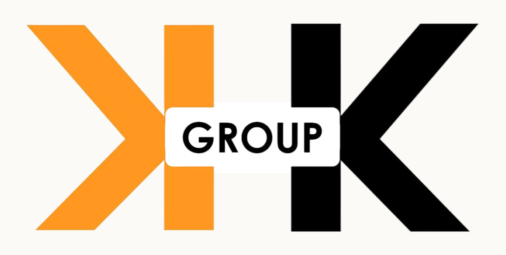
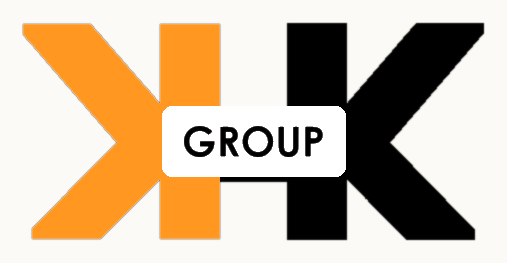
Use the bolder KK mark and match it to the RK mark
The lockup now uses kk-group-mark-bold.png and its light version, in
the header, mobile menu and footer, and the old KK files are removed.
Header plates are rebuilt from each mark's trimmed letters with the same
10% padding, so both marks share one height. Rendered letter heights
match to within 0.33px at 1440, 768, 390 and 320px.

Changed region(s): [[0.0296, 0.0824, 0.9783, 0.9333]]

diff --git a/src/app/globals.css b/src/app/globals.css
@@ -665,13 +665,12 @@ h1,h2,h3 { font-family: "Space Grotesk", Arial, sans-serif; font-weight: 500; le
 .brand-order:hover { transform: translateY(-1px); }
 .brand-islamabad .brand-order { background: #f7edce; color: var(--ink); }
 
-/* RK and KK lockup: both marks at the same height, the text between them. Plate images carry 22px of padding per 338px of mark. */
+/* RK and KK lockup: both marks at the same letter height, the text between them. Plate images carry 10% padding, so they render at 1.2 times the mark height. */
 .brand-lockup { --mark: 34px; display: flex; align-items: center; gap: 11px; flex: none; }
-.brand-lockup img { display: block; width: auto; height: calc(var(--mark) * 1.13); margin-inline: -3px; }
-.brand-lockup img:last-child { height: calc(var(--mark) * 1.21); margin-inline: -4px; }
+.brand-lockup img { display: block; width: auto; height: calc(var(--mark) * 1.2); margin-inline: -3px; }
 .lockup-text { font: 500 15px/1.1 "Space Grotesk", Arial, sans-serif; letter-spacing: -.02em; white-space: nowrap; }
 .brand-lockup--light { color: white; }
-.brand-lockup--light img, .brand-lockup--light img:last-child { height: 30px; margin-inline: 0; }
+.brand-lockup--light img { height: 30px; margin-inline: 0; }
 @media (max-width: 559px) {
   .site-header .brand-lockup { --mark: 30px; gap: 7px; }
   .site-header .lockup-text { font-size: 11px; line-height: 1.12; }

diff --git a/src/components/Logo.tsx b/src/components/Logo.tsx
@@ -6,9 +6,9 @@ import Image from "next/image";
 export default function Logo({ light = false }: { light?: boolean }) {
   return (
     <Link className={`brand-lockup${light ? " brand-lockup--light" : ""}`} href="/" aria-label="RK Group of Industries and KK Group home">
-      <Image src={light ? "/assets/rk-mark-light.png" : "/assets/rk-mark-plate.png"} alt="" width={light ? 693 : 745} height={light ? 338 : 382} preload={!light} />
+      <Image src={light ? "/assets/rk-mark-light.png" : "/assets/rk-mark-plate.png"} alt="" width={light ? 693 : 727} height={light ? 338 : 400} preload={!light} />
       <span className="lockup-text"><span>Group of</span> <span>Industries</span></span>
-      <Image src={light ? "/assets/kk-group-mark-light.png" : "/assets/kk-group-mark-plate.png"} alt="" width={light ? 454 : 506} height={light ? 211 : 255} preload={!light} />
+      <Image src={light ? "/assets/kk-group-mark-light-bold.png" : "/assets/kk-group-mark-plate.png"} alt="" width={light ? 465 : 507} height={light ? 221 : 263} preload={!light} />
     </Link>
   );
 }
